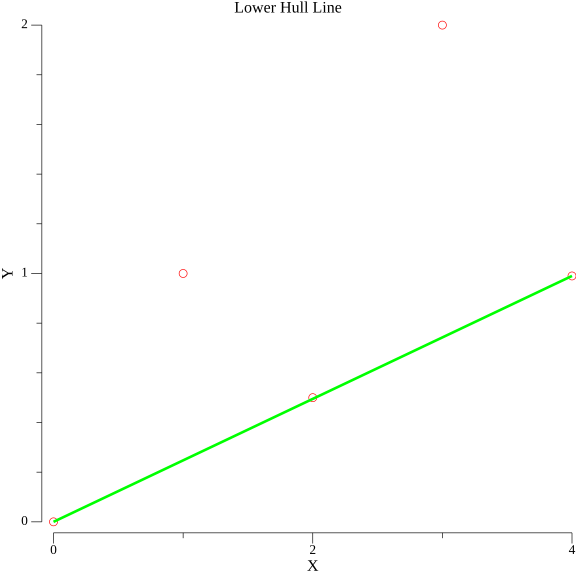
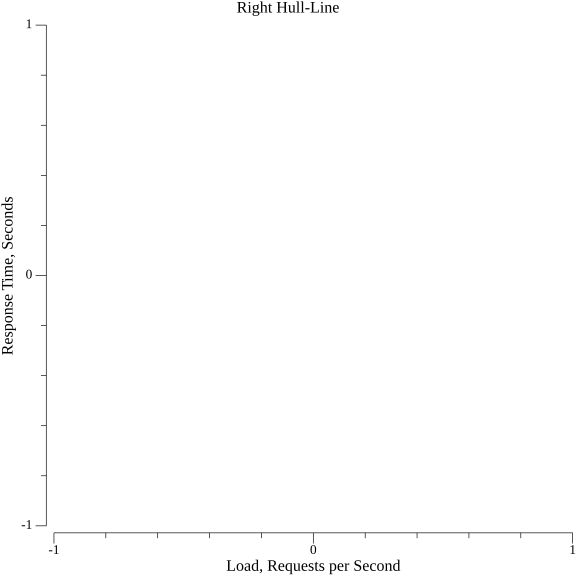
Fix a lengths bug

diff --git a/cmd/hull/hull.go b/cmd/hull/hull.go
@@ -178,7 +178,7 @@ func readCsv(r *csv.Reader, filename string, verbose bool) []Point {
 		TPS     = 3
 	)
 	var recNo = 0
-	var points []Point
+	var points = make([]Point,100)
 forloop:
 	for ; ; {
 		record, err := r.Read()
@@ -192,12 +192,13 @@ forloop:
 			log.Printf("Fatal error mid-way reading %q from %s, stopping: %s\n", record, filename, err)
 			break forloop
 		}
-		if len(record) < 9 {
+		if len(record) != 7 {
 			log.Printf("ill-formed record %q ignored\n",
 				record)
 			// Warning: this discards real-time part-records
 			continue
 		}
+
 		x := record[TPS]
 		points[recNo].X, err = strconv.ParseFloat(record[TPS], 64)
 		if err != nil {
